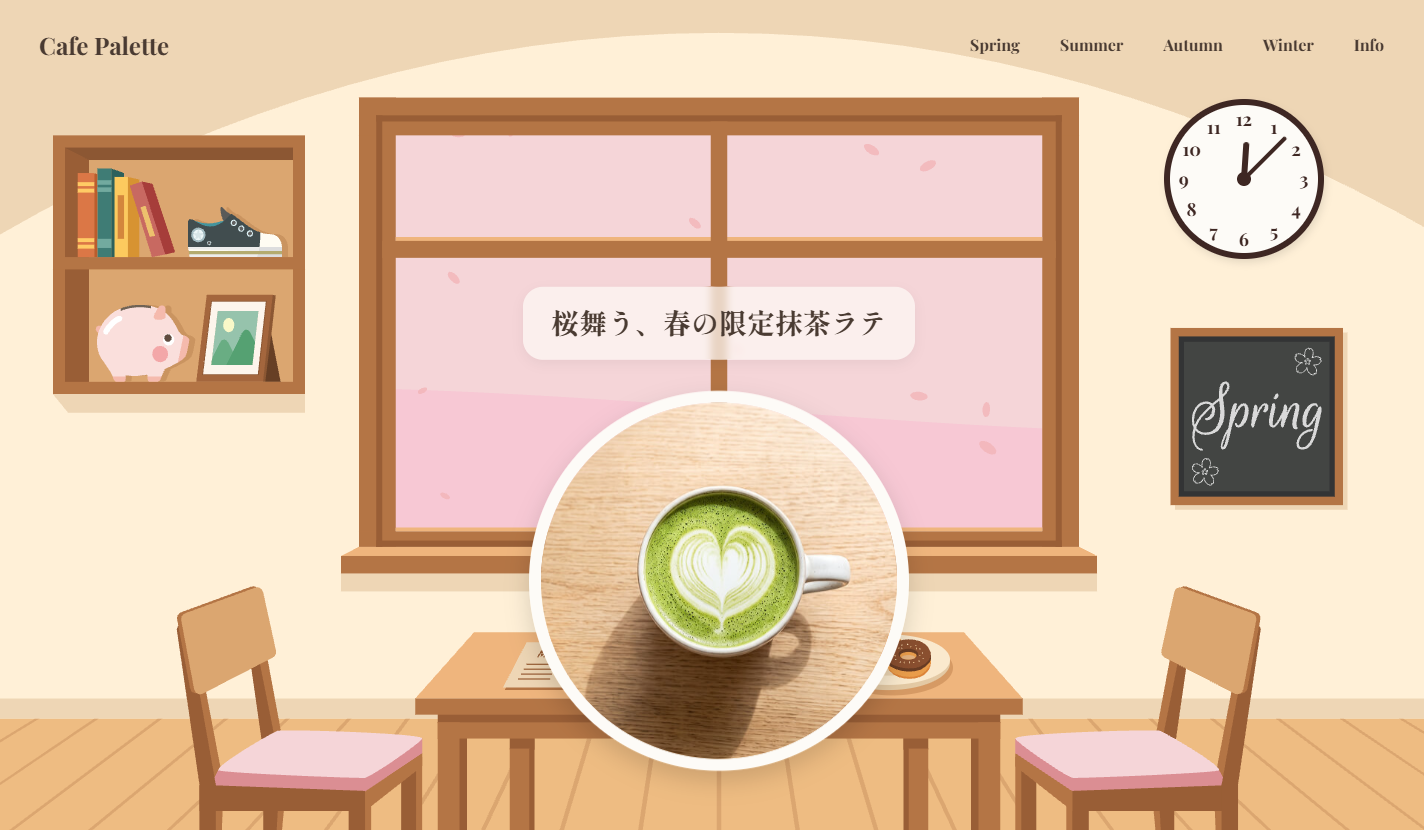
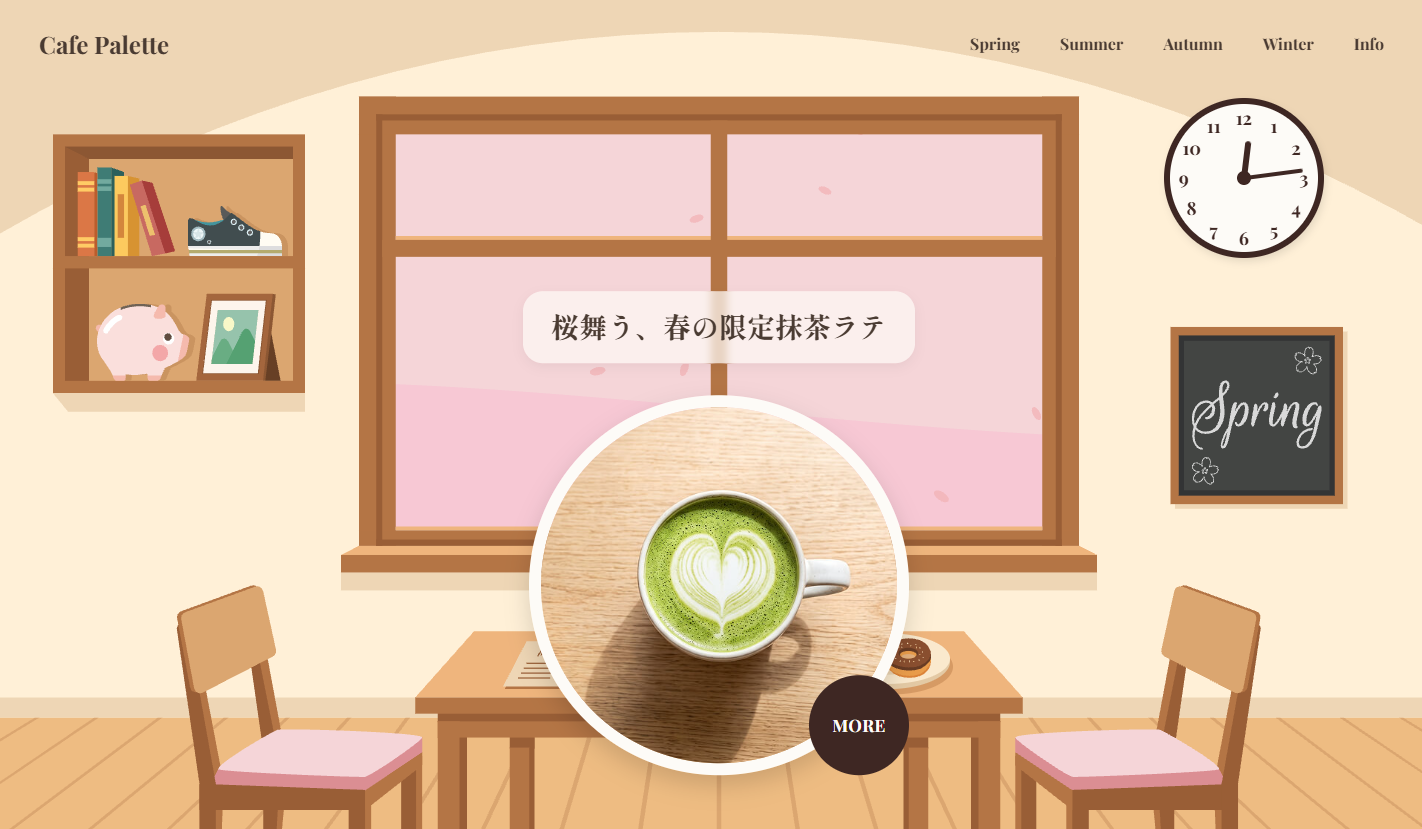
docs: スクロールバーによるガタつき制御、「MORE」ボタンと詳細モーダル表示処理についての記述を追加、画像更新など

diff --git a/README.md b/README.md
@@ -11,6 +11,7 @@
 - [デザインカンプ](#デザインカンプ)
 - [各画面・機能紹介](#各画面機能紹介)
   - [リロード時のスクロール位置リセットと初期化制御](#リロード時のスクロール位置リセットと初期化制御)
+  - [スクロールロック時のガタつき防止制御](#スクロールロック時のガタつき防止制御)
   - [OPアニメーション](#opアニメーション)
     - [Promiseを用いた同期処理](#promiseを用いた同期処理)
   - [全体横スクロール](#全体横スクロール)
@@ -28,7 +29,7 @@
     - [デバイスピクセル比対応とデルタタイムによる描画エンジン](#デバイスピクセル比対応とデルタタイムによる描画エンジン)
   - [季節セクション（春・夏・秋・冬）](#季節セクション春夏秋冬)
     - [ポップアップ登場と浮遊ループのシームレスな連携](#ポップアップ登場と浮遊ループのシームレスな連携)
-    - [スクロール固定とアニメーションのtransform競合回避](#スクロール固定とアニメーションのtransform競合回避)
+    - [dialog要素と非同期デコードを用いたメニュー詳細モーダル](#dialog要素と非同期デコードを用いたメニュー詳細モーダル)
   - [退店時ズームアニメーション](#退店時ズームアニメーション)
   - [Messageセクション](#messageセクション)
     - [スクロール進行度（progress）監視による時間差フェードイン](#スクロール進行度progress監視による時間差フェードイン)
@@ -61,11 +62,11 @@
 
 * **保守性・拡張性を意識したモジュール設計（ES Modules / FLOCSS / Handlebars）**
 
-  JavaScriptは機能・セクション単位でモジュール分割し、カラーコードやイージング、ブレイクポイントなどを定数ファイル（[`constants.js`](src/js/utils/constants.js)）で一元管理しています。また、肥大化しやすいインラインSVGはHandlebarsを用いて外部ファイル化し、HTMLの可読性とメンテナンス性を高めました。
+  JavaScriptは機能・セクション単位でモジュール分割し、カラーコードやイージングなどの定数（[`constants.js`](src/js/utils/constants.js)）や、スクロールロック制御（[`scrollbar.js`](src/js/utils/scrollbar.js)）、非同期の待機処理（[`async.js`](src/js/utils/async.js)）といった共通ロジックをユーティリティとして一元管理しています。また、肥大化しやすいインラインSVGはHandlebarsを用いて外部ファイル化し、HTMLの可読性とメンテナンス性を高めました。
 
 * **パフォーマンスとユーザー体験（UX）への徹底した配慮**
 
-  非表示レイヤーにおけるCanvas描画ループの自動停止や、リサイズイベントのデバウンス処理、モニターのリフレッシュレートに依存しないデルタタイム計算など、ブラウザの負荷を抑えつつどの環境でも快適に動作する工夫を取り入れています。
+  非表示レイヤーにおけるCanvas描画ループの自動停止、リサイズイベントのデバウンス処理、リフレッシュレート非依存のデルタタイム計算に加え、スクロールバーの有無によるレイアウトシフト（ガタつき）の防止や、画像デコード完了を待機するモーダル表示など、細部まで快適な操作性を追求しています。
 
 ## こだわったポイント
 * **入店から退店まで「時間の流れと四季の移ろい」を体験できるストーリー演出**
@@ -80,13 +81,17 @@
 
   背景で舞う桜・泡・落ち葉・粉雪・夜空の星は、オブジェクト指向（クラス設計）で実装したCanvasエンジンで描画しています。`window.devicePixelRatio` に合わせたスケーリングでスマホ等の高解像度画面でもボヤけない描画を保ちつつ、フレーム間の経過時間（`deltaTime`）を基に移動量や瞬きを計算することで、60Hz・120Hzなど異なるリフレッシュレートのモニター間でも同じ速度でアニメーションが再生されるよう制御しています。
 
+* **モダンな `<dialog>` モーダルとスクロールロック時のガタつき防止設計**
+
+  季節限定メニューの詳細表示にはHTML標準の `<dialog>` 要素を採用し、最新CSSの `@starting-style` と `transition-behavior: allow-discrete` による滑らかな開閉アニメーションや、`HTMLImageElement.decode()` と `Promise.all` を組み合わせたローディング同期を実装しました。また、OP演出・SPメニュー・モーダル開閉に伴うスクロール禁止／解除時には、一時要素を用いてOS固有のスクロールバー幅を正確に計測しCSS変数で固定ヘッダーの余白を補正することで、Windows環境等での画面のガタつきを完全に防いでいます。
+
 * **`gsap.matchMedia()` のクリーンアップ関数による堅牢な状態管理**
 
   PCとSPを跨ぐ画面リサイズが発生した際に、スクロール連動のコールバック内で動的に付与されたインラインスタイルや進行中の単発Tweenが残って表示崩れを引き起こさないよう、各モジュールのクリーンアップ関数で `gsap.killTweensOf()` や `clearProps` を適切に実行し、初期状態へ安全にリセットする設計を徹底しました。
 
 * **HandlebarsによるSVGの分割管理と、CSS変数を活用したスマートなUI構築**
 
-  アニメーション制御のために多数のクラスやパスを持つインラインSVGを `src/svg/` 配下に分割し、ビルド時に `vite-plugin-handlebars` で結合する構成としました。また、壁掛け時計の文字盤配置やSPメニューの円形展開（`clip-path`）にはCSSカスタムプロパティ（CSS変数）を活用し、JavaScriptとCSSの役割分担を明確にしています。
+  アニメーション制御のために多数のクラスやパスを持つインラインSVGを `src/svg/` 配下に分割し、ビルド時に `vite-plugin-handlebars` で結合する構成としました。また、壁掛け時計の文字盤配置やSPメニューの円形展開（`clip-path`）、スクロールバー幅の余白補正にはCSSカスタムプロパティ（CSS変数）を活用し、JavaScriptとCSSの役割分担を明確にしています。
 
 ## 使用技術
 **フロントエンド**
@@ -129,6 +134,16 @@
 > 📂 **関連ファイル**
 > * JS: [main.js](src/js/main.js)
 
+### スクロールロック時のガタつき防止制御
+オープニングアニメーション再生中やSPメニュー・詳細モーダル展開時には、背面のスクロールを禁止するため `body` に `.is-noscroll`（`overflow: hidden`）を付与しています。しかし、Windows環境など常時スクロールバーが表示される環境では、スクロールバーの消失・出現に伴って固定ヘッダー（`.l-header`）の表示幅が変化し、画面が左右にガタつく問題が発生します。
+
+これを解決するため、共通ユーティリティ [`scrollbar.js`](src/js/utils/scrollbar.js) に `lockScroll()` / `unlockScroll()` を実装しました。初期読み込み時点で既に `overflow: hidden` が付与されているオープニング時でも正確にスクロールバー幅を取得できるよう、画面外に一時的な `overflow: scroll` のダミー要素を生成して `offsetWidth - clientWidth` から幅を計測し、ルート要素のCSS変数（`--scrollbar-width`）へセットすることで、固定ヘッダーの `padding-right` を動的に補正しています。
+
+> 📂 **関連ファイル**
+> * JS: [scrollbar.js](src/js/utils/scrollbar.js)
+> * SCSS: [_header.scss](src/scss/layout/_header.scss)
+> * SCSS: [_base.scss](src/scss/foundation/_base.scss)
+
 ### OPアニメーション
 ![OPアニメーションwebp動画](docs/opening/opening.webp)
 
@@ -146,6 +161,8 @@
 
 > 📂 **関連ファイル**
 > * JS: [opening.js](src/js/modules/opening.js)
+> * JS: [async.js](src/js/utils/async.js)
+> * JS: [scrollbar.js](src/js/utils/scrollbar.js)
 > * SCSS: [_opening.scss](src/scss/object/project/_opening.scss)
 > * SVG: [opening.html](src/svg/opening.html)
 
@@ -174,12 +191,13 @@ PC表示時（画面幅1024px以上）において、縦スクロール操作を
 SP時のハンバーガーメニュー開閉では、ボタンの中心座標を `getBoundingClientRect()` で動的に取得してCSS変数（`--cx`, `--cy`）にセットし、その座標を起点として `clip-path: circle()` でメニュー背景が円形に広がるアニメーションを実装しました。画面リサイズ時にはデバウンス処理（[`debounce.js`](src/js/utils/debounce.js)）を介して座標を再計算し、常にボタンの中心から展開されるよう制御しています。また、ボタンの三本線は `MorphSVGPlugin` でバツ印へと滑らかに変形します。
 
 #### 非同期処理（async/await）によるスクロールロック制御（SP）
-SPメニュー展開中は `body` に `.is-noscroll` クラスを付与して背面のスクロールを禁止しています。メニューを閉じる際には、`await tl.reverse()` によってタイムラインの逆再生完了を待機してから `.is-noscroll` クラスを解除することで、「メニューが完全に閉じ切る前に背面がスクロールできてしまう」という操作上の違和感を防いでいます。
+SPメニュー展開中は共通ユーティリティの [`lockScroll()`](src/js/utils/scrollbar.js) によって背面のスクロール禁止と余白補正を行っています。メニューを閉じる際には、`await tl.reverse()` によってタイムラインの逆再生完了を待機してから [`unlockScroll()`](src/js/utils/scrollbar.js) でスクロール禁止を解除することで、「メニューが完全に閉じ切る前に背面がスクロールできてしまう」という操作上の違和感を防いでいます。
 
 > 📂 **関連ファイル**
 > * JS: [header.js](src/js/modules/header.js)
 > * JS: [common.js](src/js/modules/common.js)
 > * JS: [debounce.js](src/js/utils/debounce.js)
+> * JS: [scrollbar.js](src/js/utils/scrollbar.js)
 > * SCSS: [_header.scss](src/scss/layout/_header.scss)
 > * SCSS: [_base.scss](src/scss/foundation/_base.scss)
 > * SVG: [header-hamburger.html](src/svg/header-hamburger.html)
@@ -269,20 +287,38 @@ Canvasの描画管理を行う [`canvasEngine.js`](src/js/modules/canvasEngine.j
 ### 季節セクション（春・夏・秋・冬）
 ![季節セクションの画像](docs/season/season.PNG)
 
-カフェの窓辺（前景レイヤー）と季節の景色（背景レイヤー）に挟まれながら、春夏秋冬それぞれの季節限定メニュー（生成AIのGeminiで作成したメニュー画像とキャッチコピー）を紹介するメインセクションです。
+カフェの窓辺（前景レイヤー）と季節の景色（背景レイヤー）に挟まれながら、春夏秋冬それぞれの季節限定メニュー（生成AIのGeminiで作成したメニュー画像とキャッチコピー）を紹介するメインセクションです。各メニュー画像の右下には詳細モーダルを開く「MORE」ボタンを配置しています。
 
 #### ポップアップ登場と浮遊ループのシームレスな連携
 ![季節セクションのポップアップwebp動画](docs/season/season-popup.webp)
 
-各季節のエリアに進入すると、`elastic.out` イージングによってメニュー画像とキャッチコピーが弾むようにポップアップ登場します。さらに同じタイムラインの末尾に `GSAP_EASING.FLOAT`（`sine.inOut`）を用いた上下移動（`yoyo: true, repeat: -1`）を繋げることで、ポップアップ完了後にそのまま切れ目なくふわふわと漂う無限ループアニメーションへと移行させています。
+各季節のエリアに進入すると、`elastic.out` イージングによってメニュー画像（「MORE」ボタンを含むラッパー要素）とキャッチコピーが弾むようにポップアップ登場します。さらに同じタイムラインの末尾に `sine.inOut` イージングを用いた上下移動（`yoyo: true, repeat: -1`）を繋げることで、ポップアップ完了後にそのまま切れ目なくふわふわと漂う無限ループアニメーションへと移行させています。
 
-#### スクロール固定とアニメーションのtransform競合回避
-セクション通過中にメニューコンテンツを画面中央に固定する際、SP時はScrollTriggerの `pin` 機能、PC時は逆スクロール移動（`x` 座標の移動）によって外枠（`.js-season-content`）の `transform` が操作されます。そこで、固定制御は外枠の要素に専念させ、ポップアップや浮遊ループのアニメーションは内側の画像（`.js-season-image`）とテキスト（`.js-season-text`）に対して直接適用することで、GSAPにおける `transform` プロパティの競合（位置ズレや上書き）を回避しました。
+#### dialog要素と非同期デコードを用いたメニュー詳細モーダル
+![メニュー詳細モーダル開閉のwebp動画](docs/season/season-modal.webp)
+
+各季節メニューの「MORE」ボタンをクリックすると、HTML標準の `<dialog>` 要素で構築した詳細モーダルが開きます。ボタンの `data-season-id` 属性から対象セクションの詳細情報（画像・タイトル・説明文）を動的に取得して表示する仕組みとし、以下のUX・アクセシビリティ対応を組み込んでいます。
+
+* **最新CSSによるスムーズな開閉アニメーション**
+
+  `transition-behavior: allow-discrete` と `@starting-style` を組み合わせ、`display: none` からの表示切り替え時および背面オーバーレイ（`::backdrop`）にも滑らかなフェードトランジションを適用しました。
+
+* **非同期デコードとローディング演出の同期**
+
+  [`modal.js`](src/js/modules/modal.js) 内で `Promise.all` を用い、`modalImage.decode()` による画像の描画準備完了と最低ローディング表示時間（0.6秒）の両方を待機してからコンテンツをフェードインさせています。万が一データ取得や読み込みに失敗した場合のエラーメッセージ表示（`try / catch / finally`）にも対応しています。
+
+* **快適な操作性と状態リセット**
+
+  モーダル展開時には `modalText.scrollTop = 0` でテキスト領域のスクロール位置を毎回先頭へリセットし、閉じるボタン・オーバーレイクリック・ESCキーのいずれで閉じた場合も `close` イベントで確実に [`unlockScroll()`](src/js/utils/scrollbar.js) を実行して背面のスクロールロックと余白補正を解除します。
 
 > 📂 **関連ファイル**
 > * JS: [season.js](src/js/modules/season.js)
+> * JS: [modal.js](src/js/modules/modal.js)
 > * JS: [scroll.js](src/js/utils/scroll.js)
+> * JS: [async.js](src/js/utils/async.js)
+> * JS: [scrollbar.js](src/js/utils/scrollbar.js)
 > * SCSS: [_season-panel.scss](src/scss/object/project/_season-panel.scss)
+> * SCSS: [_modal.scss](src/scss/object/component/_modal.scss)
 
 ### 退店時ズームアニメーション
 ![退店時ズームアニメーションwebp動画](docs/exit/exit-zoom.webp)
